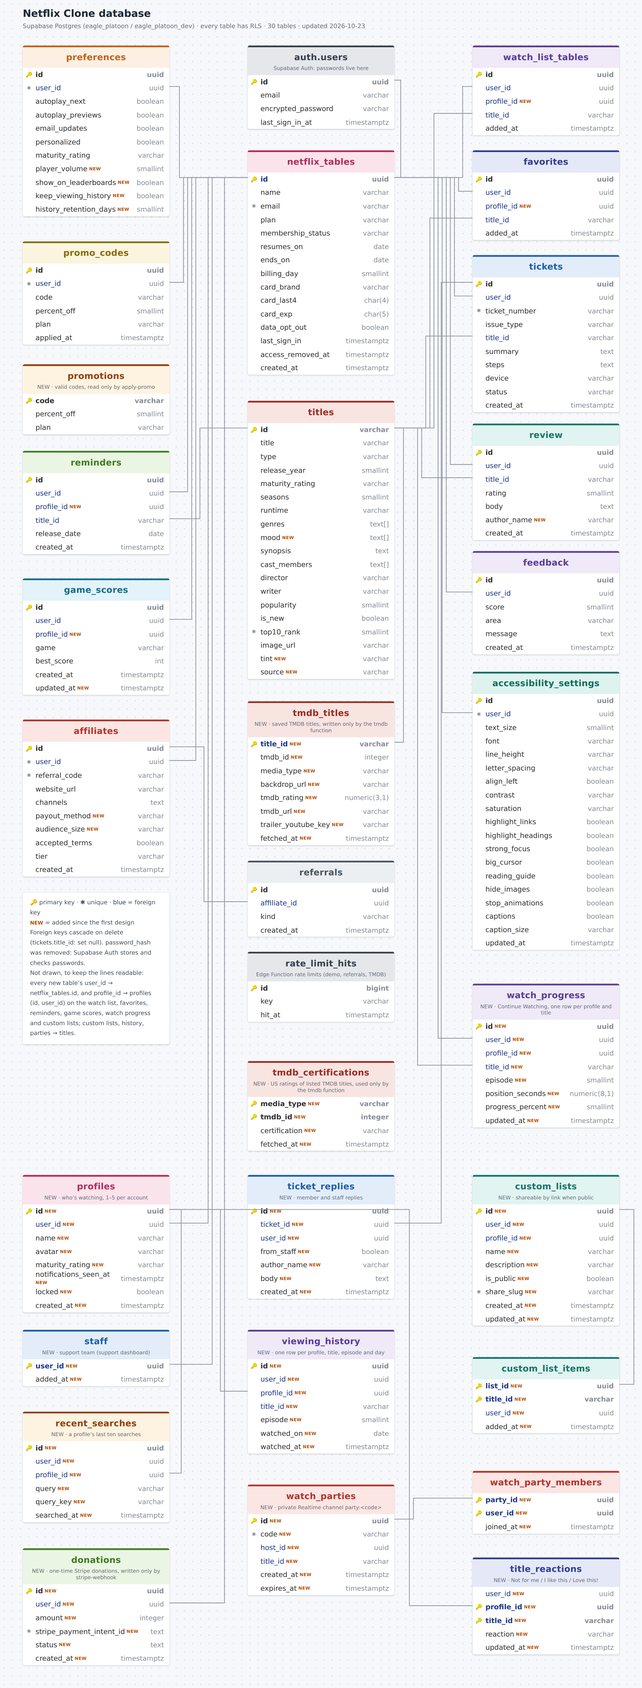
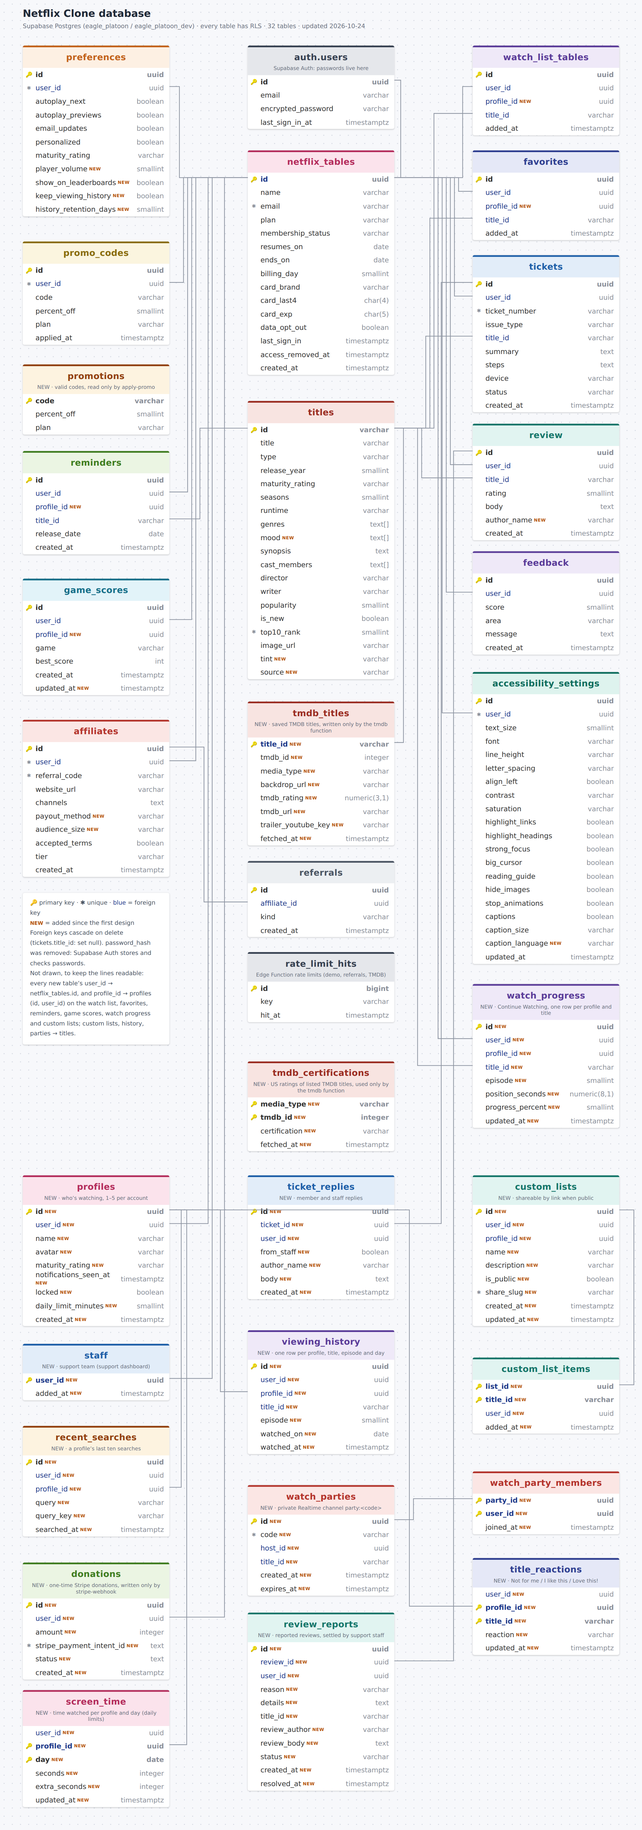
Docs and diagram for the eight features
schema.sql and drawsql.png gain screen_time, review_reports,
profiles.daily_limit_minutes and accessibility_settings.caption_language
(32 tables); user stories 63-66; CLAUDE.md conventions, routes, tests and
what dev runs ahead of production; prompt.md prompts 29-30; READMEs.

diff --git a/supabase/diagram/erd.html b/supabase/diagram/erd.html
@@ -50,14 +50,14 @@ const tables = [
   ['tickets', 'blue', R, 560, ['id:uuid:p', 'user_id:uuid:f', 'ticket_number:varchar:u', 'issue_type:varchar', 'title_id:varchar:f', 'summary:text', 'steps:text', 'device:varchar', 'status:varchar', 'created_at:timestamptz']],
   ['review', 'teal', R, 930, ['id:uuid:p', 'user_id:uuid:f', 'title_id:varchar:f', 'rating:smallint', 'body:text', 'author_name:varchar:n', 'created_at:timestamptz']],
   ['feedback', 'lav', R, 1210, ['id:uuid:p', 'user_id:uuid:f', 'score:smallint', 'area:varchar', 'message:text', 'created_at:timestamptz']],
-  ['accessibility_settings', 'sea', R, 1475, ['id:uuid:p', 'user_id:uuid:fu', 'text_size:smallint', 'font:varchar', 'line_height:varchar', 'letter_spacing:varchar', 'align_left:boolean', 'contrast:varchar', 'saturation:varchar', 'highlight_links:boolean', 'highlight_headings:boolean', 'strong_focus:boolean', 'big_cursor:boolean', 'reading_guide:boolean', 'hide_images:boolean', 'stop_animations:boolean', 'captions:boolean', 'caption_size:varchar', 'updated_at:timestamptz']],
+  ['accessibility_settings', 'sea', R, 1475, ['id:uuid:p', 'user_id:uuid:fu', 'text_size:smallint', 'font:varchar', 'line_height:varchar', 'letter_spacing:varchar', 'align_left:boolean', 'contrast:varchar', 'saturation:varchar', 'highlight_links:boolean', 'highlight_headings:boolean', 'strong_focus:boolean', 'big_cursor:boolean', 'reading_guide:boolean', 'hide_images:boolean', 'stop_animations:boolean', 'captions:boolean', 'caption_size:varchar', 'caption_language:varchar:n', 'updated_at:timestamptz']],
   ['rate_limit_hits', 'gray', M, 2090, ['id:bigint:p', 'key:varchar', 'hit_at:timestamptz'], 'Edge Function rate limits (demo, referrals, TMDB)'],
   ['tmdb_certifications', 'brick', M, 2330, ['media_type:varchar:pn', 'tmdb_id:integer:pn', 'certification:varchar:n', 'fetched_at:timestamptz:n'], 'NEW · US ratings of listed TMDB titles, used only by the tmdb function'],
   ['watch_progress', 'purple', R, 2160, ['id:uuid:pn', 'user_id:uuid:fn', 'profile_id:uuid:fn', 'title_id:varchar:fn', 'episode:smallint:n', 'position_seconds:numeric(8,1):n', 'progress_percent:smallint:n', 'updated_at:timestamptz:n'], 'NEW · Continue Watching, one row per profile and title'],
   // 2026-10-22: profiles, support, history, custom lists, watch parties, recent searches
-  ['profiles', 'pink', L, 2580, ['id:uuid:pn', 'user_id:uuid:fn', 'name:varchar:n', 'avatar:varchar:n', 'maturity_rating:varchar:n', 'notifications_seen_at:timestamptz:n', 'locked:boolean:n', 'created_at:timestamptz:n'], 'NEW · who’s watching, 1–5 per account'],
-  ['staff', 'blue', L, 2920, ['user_id:uuid:pfn', 'added_at:timestamptz:n'], 'NEW · support team (support dashboard)'],
-  ['recent_searches', 'amber', L, 3100, ['id:uuid:pn', 'user_id:uuid:fn', 'profile_id:uuid:fn', 'query:varchar:n', 'query_key:varchar:n', 'searched_at:timestamptz:n'], 'NEW · a profile’s last ten searches'],
+  ['profiles', 'pink', L, 2580, ['id:uuid:pn', 'user_id:uuid:fn', 'name:varchar:n', 'avatar:varchar:n', 'maturity_rating:varchar:n', 'notifications_seen_at:timestamptz:n', 'locked:boolean:n', 'daily_limit_minutes:smallint:n', 'created_at:timestamptz:n'], 'NEW · who’s watching, 1–5 per account'],
+  ['staff', 'blue', L, 2950, ['user_id:uuid:pfn', 'added_at:timestamptz:n'], 'NEW · support team (support dashboard)'],
+  ['recent_searches', 'amber', L, 3130, ['id:uuid:pn', 'user_id:uuid:fn', 'profile_id:uuid:fn', 'query:varchar:n', 'query_key:varchar:n', 'searched_at:timestamptz:n'], 'NEW · a profile’s last ten searches'],
   ['ticket_replies', 'blue', M, 2580, ['id:uuid:pn', 'ticket_id:uuid:fn', 'user_id:uuid:fn', 'from_staff:boolean:n', 'author_name:varchar:n', 'body:text:n', 'created_at:timestamptz:n'], 'NEW · member and staff replies'],
   ['viewing_history', 'purple', M, 2920, ['id:uuid:pn', 'user_id:uuid:fn', 'profile_id:uuid:fn', 'title_id:varchar:fn', 'episode:smallint:n', 'watched_on:date:n', 'watched_at:timestamptz:n'], 'NEW · one row per profile, title, episode and day'],
   ['watch_parties', 'red', M, 3260, ['id:uuid:pn', 'code:varchar:un', 'host_id:uuid:fn', 'title_id:varchar:fn', 'created_at:timestamptz:n', 'expires_at:timestamptz:n'], 'NEW · private Realtime channel party:&lt;code&gt;'],
@@ -67,7 +67,10 @@ const tables = [
   // 2026-10-23: thumbs ratings (profile PINs live in the private schema, outside the API)
   ['title_reactions', 'indigo', R, 3420, ['user_id:uuid:fn', 'profile_id:uuid:pfn', 'title_id:varchar:pfn', 'reaction:varchar:n', 'updated_at:timestamptz:n'], 'NEW · Not for me / I like this / Love this!'],
   // 2026-10-23: donations (Stripe)
-  ['donations', 'green', L, 3400, ['id:uuid:pn', 'user_id:uuid:fn', 'amount:integer:n', 'stripe_payment_intent_id:text:un', 'status:text:n', 'created_at:timestamptz:n'], 'NEW · one-time Stripe donations, written only by stripe-webhook'],
+  ['donations', 'green', L, 3430, ['id:uuid:pn', 'user_id:uuid:fn', 'amount:integer:n', 'stripe_payment_intent_id:text:un', 'status:text:n', 'created_at:timestamptz:n'], 'NEW · one-time Stripe donations, written only by stripe-webhook'],
+  // 2026-10-24: screen-time limits, reported reviews
+  ['screen_time', 'pink', L, 3710, ['user_id:uuid:fn', 'profile_id:uuid:pfn', 'day:date:pn', 'seconds:integer:n', 'extra_seconds:integer:n', 'updated_at:timestamptz:n'], 'NEW · time watched per profile and day (daily limits)'],
+  ['review_reports', 'teal', M, 3540, ['id:uuid:pn', 'review_id:uuid:fn', 'user_id:uuid:fn', 'reason:varchar:n', 'details:text:n', 'title_id:varchar:n', 'review_author:varchar:n', 'review_body:text:n', 'status:varchar:n', 'created_at:timestamptz:n', 'resolved_at:timestamptz:n'], 'NEW · reported reviews, settled by support staff'],
 ]
 // [from table, from column, to table, to column]
 const links = [
@@ -86,10 +89,12 @@ const links = [
   ['watch_party_members', 'party_id', 'watch_parties', 'id'],
   ['title_reactions', 'profile_id', 'profiles', 'id'],
   ['donations', 'user_id', 'netflix_tables', 'id'],
+  ['screen_time', 'profile_id', 'profiles', 'id'],
+  ['review_reports', 'review_id', 'review', 'id'],
 ]
 
 const board = document.getElementById('board')
-board.insertAdjacentHTML('beforeend', '<div id="title">Netflix Clone database</div><div id="sub">Supabase Postgres (eagle_platoon / eagle_platoon_dev) · every table has RLS · 30 tables · updated 2026-10-23</div>')
+board.insertAdjacentHTML('beforeend', '<div id="title">Netflix Clone database</div><div id="sub">Supabase Postgres (eagle_platoon / eagle_platoon_dev) · every table has RLS · 32 tables · updated 2026-10-24</div>')
 for (const [name, color, x, y, rows, note] of tables) {
   const [c, bg] = C[color]
   const el = document.createElement('div')

diff --git a/CLAUDE.md b/CLAUDE.md
@@ -28,7 +28,8 @@ supabase/             Supabase CLI project (config.toml); MCP config in supabase
   migrations/         Schema + RLS, catalog titles, auth support (triggers, promotions, cleanup cron), rate limits,
                       saved TMDB titles, watch progress and leaderboards, profiles, support dashboard, notifications,
                       viewing history, custom lists, watch parties (Realtime RLS), better search (pg_trgm), thumbs
-                      ratings, Year in Review, profile locks, two-step sign-in (restrictive policies, devices), donations
+                      ratings, Year in Review, profile locks, two-step sign-in (restrictive policies, devices), donations,
+                      screen-time limits, caption language, reported reviews
   non_transactional/  CREATE INDEX CONCURRENTLY files: apply with psql after migrations (the CLI can't run them)
                       (Index Advisor is installed on both projects: dashboard → Query Performance suggests missing ones)
   functions/          Edge Functions: demo-account, delete-account, apply-promo, record-referral, tmdb, assistant,
@@ -38,7 +39,7 @@ supabase/             Supabase CLI project (config.toml); MCP config in supabase
   seeds/              Development test data (6 example.com users, rows in every table); never run on production
   tests/database/     pgTAP tests (`supabase test db`): access rules, triggers, cleanup job, rate limiter, indexes
   diagram/            erd.html (source of drawsql.png) + render.mjs (`node supabase/diagram/render.mjs` redraws it)
-schema.sql, drawsql.png  The table design and its diagram, kept in step with the migrations (all 30 public tables)
+schema.sql, drawsql.png  The table design and its diagram, kept in step with the migrations (all 32 public tables)
 user_stories.md       What the database stores, one story per thing the app remembers
 prompt.md             The original build prompt and the Supabase-phase prompts
 .github/workflows/    CI: lint, build, Playwright; pgTAP against a local Supabase (Docker)
@@ -50,8 +51,9 @@ non_transactional file and function to dev first, then production, with the same
 Both run all 20 migrations (through `20261023040000_second_step_for_definer_functions`), non_transactional 001–008
 and the same 8 functions, with `assistant` (production caught up 2026-10-21). `assistant` needs the
 `ANTHROPIC_API_KEY` function secret on each project (without it the app matches words).
-Dev is one step ahead: it also runs migration 21, `20261023050000_donations`, and the functions `process-donation`
-and `stripe-webhook` (10 functions); production doesn't have them yet. They need two function variables per project:
+Dev is ahead: it also runs migrations 21–24 (`20261023050000_donations`, `20261024000000_screen_time`,
+`20261024010000_caption_language`, `20261024020000_review_reports`), non_transactional 009–010 and the functions
+`process-donation` and `stripe-webhook` (10 functions); production doesn't have them yet. They need two function variables per project:
 `STRIPE_SECRET_KEY` (a test-mode key on dev; without it process-donation answers 503) and `STRIPE_WEBHOOK_SECRET`,
 the signing value of the Stripe webhook endpoint that points at `<project>.supabase.co/functions/v1/stripe-webhook`
 (events `payment_intent.succeeded` and `payment_intent.payment_failed`). Never put either value in the repo.
@@ -109,6 +111,7 @@ locally (it isn't installed in this WSL distro, so CI is where these run today).
 | (extra) Year in Review | `/year-in-review` | `pages/YearInReview.jsx`, `data/yearInReview.js` |
 | (extra) What should I watch? (assistant) | `/what-to-watch` | `pages/Assistant.jsx`, `data/assistant.js`, `supabase/functions/assistant` |
 | (extra) Security (two-step sign-in, devices) | in `/account` | `pages/account/Security.jsx`, `data/totp.js`, `data/devices.js` |
+| (extra) Downloads (offline) | `/downloads` (linked from My App; "Download to watch offline" on catalog title pages) | `pages/Downloads.jsx`, `components/DownloadButton.jsx`, `data/downloads.js`, `state/useDownloads.js`, `public/sw.js` |
 | (extra) Donate (one-time, Stripe) | `/donate` (linked from Account → Help and the round coffee button above the tab bar on every page) | `pages/Donate.jsx`, `pages/donate/DonateForm.jsx` (lazy), `data/donations.js`, `lib/stripe.js`, `supabase/functions/process-donation` |
 
 When the outline changes: diff `app_outline/user_journey.md` (`git diff --word-diff`), map each change to this
@@ -277,6 +280,35 @@ after editing.
   can't charge twice. The round coffee link (`.donate-fab`, "Donate: buy us a coffee") sits inside `.bottom-nav`,
   absolutely positioned above it, so it is pinned to the phone frame and covered by the tab bar's axe audit; the
   bottom `scroll-padding` leaves room for it. `donate.spec.js` pays with Stripe test cards 4242… and 4000…0002 on :4174.
+- **Donation history and receipts**: /donate lists the member's donations (`DonationHistory`, read straight from
+  `donations`; it rechecks a few times after a donation while the webhook records it). `process-donation` sets
+  `receipt_email` to the member's address, except for demo accounts (`app_metadata.demo`); Stripe sends no receipts in
+  test mode.
+- **Surprise me**: `components/SurpriseButton.jsx` on Home (follows the TV Shows / Movies chip) and Search (follows
+  Type) opens a random catalog title the profile may watch (`data/surprise.js`: never Not for me, never the last pick).
+- **Keyboard shortcuts help**: `?` on any page (not while typing) opens `components/ShortcutsDialog.jsx`, also from
+  the accessibility menu and the Accessibility Policy. The list is `data/shortcuts.js`: change it with the handlers
+  (Player's `shortcuts`, SearchBox).
+- **Screen-time limits**: `profiles.daily_limit_minutes` (30–240, null = none) changes only through
+  `set_screen_time_limit()` with the account password (a trigger keeps it otherwise, like `locked`). Only limited
+  profiles count time: `state/useScreenTime.js` adds 5 s per tick while the player plays and saves every 15 s through
+  `add_screen_time()` (1–60 s per call, never down; `screen_time` per profile and local day). At the limit the player
+  pauses under `components/ScreenTimeUp.jsx`; `add_extra_screen_time()` (password) allows 30 more minutes. Set it in
+  Profiles → Edit → Screen time. In memory the usage lives for the page load.
+- **Caption language**: `captionLanguage` ('en' | 'es') in the accessibility menu (saved as
+  `accessibility_settings.caption_language`); the Player keys its `<track>` by language
+  (`public/media/<clip>.<lang>.vtt`). The Spanish files are this app's translation of the CC BY-SA English captions:
+  keep the credit in the player and the Legal hub.
+- **Offline downloads**: `data/downloads.js` puts a title's clip (the format this browser plays), both caption files
+  and the seek previews in the `downloads` cache; `public/sw.js` answers `/media` from it, byte ranges included, and
+  never deletes that cache. The list is per device (`netflix-clone-downloads`). Offered only when a service worker
+  controls the page (production builds), so `pwa.spec.js` is where it's tested.
+- **Reported reviews**: members report another member's review (`review_reports`; a trigger copies the review and
+  refuses your own; one per member per review). The support dashboard's Reported reviews view uses
+  `staff_review_reports()` / `staff_resolve_review()` (keep, or delete the review; reports stay marked Removed). In
+  memory the sample reviews can be reported and the demo account settles them (`data/reviewReports.js`).
+- **Phone frame**: on desktop `.phone` is a flex column and `.page` grows, so the footer and sticky tab bar sit at the
+  frame's bottom on short pages too (`layout.spec.js` checks it in a tall window).
 - **Form state**: update with functional setters and read `e.target.value` before them
   (`(e) => { const { value } = e.target; setForm((f) => ({ ...f, key: value })) }`): with transitions pending, a
   spread of the render's `form` can restore an older value.
@@ -316,6 +348,10 @@ after editing.
   previews and picture-in-picture in `accessibility.spec.js`; PINs and Kids in `profiles.spec.js`; two-step sign-in and
   devices in `auth.spec.js`; all of them against the dev project (real TOTP) in `supabase-auth.spec.js`; database rules
   in `supabase/tests/database/seven_features.test.sql`.
+- The eight after that: donation history in `donate.spec.js`; Surprise me in `features.spec.js`; shortcuts help and
+  Spanish captions in `accessibility.spec.js`; screen-time limits in `profiles.spec.js` (Playwright's fake clock);
+  downloads in `pwa.spec.js`; reported reviews in `support.spec.js`; database rules in
+  `supabase/tests/database/eight_features.test.sql`.
 - Header buttons are matched by exact name in tests (`'Accessibility menu', exact: true`), since "Close accessibility
   menu" also contains it.
 

diff --git a/user_stories.md b/user_stories.md
@@ -4,7 +4,7 @@
 
 Pulled from `app_outline/` (the user journey and each page's `user_journey.md`) into one list: one line per thing the app has to *remember*. Story 1 isn't on any single page; it's there so the database knows who owns what.
 
-These stories are what the Supabase database stores (see `schema.sql`, `drawsql.png` and `supabase/migrations/`). Without Supabase configured the app keeps the same data in memory, and it resets on refresh. Stories 26–32 were added with the Supabase backend. Stories 33–35 came with The Movie Database (TMDB): its titles are fetched live through the `tmdb` Edge Function, and a TMDB title is stored only once a member saves it (story 36, `titles` with `source = 'tmdb'` plus `tmdb_titles`); lookups that reach TMDB are counted for rate limiting (story 31). Stories 36–38 were added with saved TMDB titles, player volume and episode buttons. Stories 39–44 came with Continue Watching (`watch_progress`), TMDB trailers, where to watch, reviews, recommendations and certifications (`tmdb_titles.trailer_youtube_key`, `tmdb_certifications`) and opt-in game leaderboards (`preferences.show_on_leaderboards`, `game_scores.updated_at`, the `game_leaderboard()` function). Stories 45–54 came with ten more features: profiles (`profiles`, and `profile_id` on the per-profile tables), the support dashboard (`staff`, `ticket_replies`), reminders and notifications (`reminders.release_date`, `profiles.notifications_seen_at`), viewing history and its privacy settings (`viewing_history`, `preferences.keep_viewing_history`, `preferences.history_retention_days`), custom lists (`custom_lists`, `custom_list_items`, `shared_list()`), watch parties (`watch_parties`, `watch_party_members`, `join_watch_party()`, private Realtime channels) and better search (`search_titles()`, `recent_searches`). Actor and director pages, episodes and the installable app need no stored data.
+These stories are what the Supabase database stores (see `schema.sql`, `drawsql.png` and `supabase/migrations/`). Without Supabase configured the app keeps the same data in memory, and it resets on refresh. Stories 26–32 were added with the Supabase backend. Stories 33–35 came with The Movie Database (TMDB): its titles are fetched live through the `tmdb` Edge Function, and a TMDB title is stored only once a member saves it (story 36, `titles` with `source = 'tmdb'` plus `tmdb_titles`); lookups that reach TMDB are counted for rate limiting (story 31). Stories 36–38 were added with saved TMDB titles, player volume and episode buttons. Stories 39–44 came with Continue Watching (`watch_progress`), TMDB trailers, where to watch, reviews, recommendations and certifications (`tmdb_titles.trailer_youtube_key`, `tmdb_certifications`) and opt-in game leaderboards (`preferences.show_on_leaderboards`, `game_scores.updated_at`, the `game_leaderboard()` function). Stories 64–66 came with screen-time limits (`profiles.daily_limit_minutes`, `screen_time`), Spanish captions (`accessibility_settings.caption_language`) and reported reviews (`review_reports`); Surprise me, keyboard shortcuts help and offline downloads need no stored data (downloads stay in the browser). Stories 45–54 came with ten more features: profiles (`profiles`, and `profile_id` on the per-profile tables), the support dashboard (`staff`, `ticket_replies`), reminders and notifications (`reminders.release_date`, `profiles.notifications_seen_at`), viewing history and its privacy settings (`viewing_history`, `preferences.keep_viewing_history`, `preferences.history_retention_days`), custom lists (`custom_lists`, `custom_list_items`, `shared_list()`), watch parties (`watch_parties`, `watch_party_members`, `join_watch_party()`, private Realtime channels) and better search (`search_titles()`, `recent_searches`). Actor and director pages, episodes and the installable app need no stored data.
 
 1. As a user, I want an account with my name, email and password so that my private lists and settings belong to me, and no one else can see or change them. Reviews and ratings are readable by everyone. (Supabase Auth keeps the password; private data shows a member only their own rows, while the catalog and reviews are publicly readable.)
 2. As a user, I want to choose a membership plan (Basic, Standard or Premium) so that I know what I pay and what quality I get.
@@ -68,3 +68,8 @@ These stories are what the Supabase database stores (see `schema.sql`, `drawsql.
 60. As a member, I want to see which devices are signed in to my account and sign out any of them, or all but this one, so that a lost phone or a shared computer can't keep using my account.
 61. As a member who doesn't know what to watch, I want to describe what I'm in the mood for in my own words and get a few titles with a reason each, chosen only from titles my profile can watch, and to know what is sent to the AI service, so that I find something quickly without giving away who I am.
 62. As a member, I want to make a one-time donation by card (from $1 to $10,000, from the coffee button on any page) and have each one recorded with its amount, date and whether it went through, so that I can support the app; my card number never reaches the app's database, only I can read my donations, and nobody (not even me) can change or delete them.
+63. As a member, I want to see my past donations (amount, date and whether each went through) on the donation page, and to get Stripe's emailed receipt, so that I can keep track of what I gave.
+64. As a parent, I want to set a daily viewing limit on a profile (from 30 minutes to 4 hours, with the account password) so that the player stops once the time is used up, and to allow 30 more minutes with the password when I choose; nobody watching can raise the limit or reset the time watched.
+65. As a viewer, I want captions in Spanish as well as English, chosen in the accessibility menu and remembered with my other accessibility settings, so that I can follow along in the language I read best.
+66. As a member, I want to report another member's review (spoilers, offensive, spam or something else, with optional details) so that support can look at it; as support staff, I want to see reported reviews with a copy of what was written and keep or remove each one, so that title pages stay useful and safe. A member can report a review once and never their own.
+

diff --git a/netflix_clone/README.md b/netflix_clone/README.md
@@ -55,6 +55,12 @@ New passwords need 13+ characters with lowercase, uppercase, a digit and a symbo
 | Watch party | On a catalog title, **Watch party**; open the invite link in a second tab and press play in either |
 | Search | Try `nite shift` (a typo), `mara` (a person) or `thril` (a genre); press Enter to keep a search in recent searches |
 | Install | Account → App (Chrome and Edge offer **Install Netflix Clone**; iPhone: Share → Add to Home Screen); production builds only |
+| Surprise me | Home (under the hero) or Search: opens a random title for the profile, following the Movies / TV Shows filter |
+| Keyboard shortcuts | Press **?** on any page (or Accessibility menu → Keyboard shortcuts) |
+| Screen-time limits | Profiles → Manage profiles → Edit → Screen time: choose a daily limit and enter the account password. When it's used up the player stops; **Ask a grown-up** allows 30 more minutes with the password |
+| Spanish captions | Accessibility menu → Caption language → Español, then turn on CC in the player |
+| Downloads | In a production build (`npm run build`, then serve `dist/`), a title page offers **Download to watch offline**; My App → Downloads lists them. Go offline and it still plays |
+| Report a review | Under someone else's review on a title page, **Report**. In memory the demo account is staff: Account → Support dashboard → Reported reviews to keep or remove it |
 | Seed data (dev project) | Six `@example.com` members (Alex, Jordan, Sam, Priya, Chris, Dana) with lists, reviews, tickets and affiliates, from `../supabase/seeds/` |
 
 ### Troubleshooting
@@ -106,7 +112,8 @@ Tests serve the built app with `e2e/serve.js`, a tiny static server with SPA fal
 | Together | `/lists`, `/lists/:listId`, `/shared/:slug`, `/party/:code` | Custom lists shareable by link (public page for anyone), watch parties over Supabase Realtime with presence and chat |
 | Activity | `/notifications`, `/history`, `/support-dashboard` | Notifications bell (released reminders, support replies), viewing activity with privacy controls, the support team's ticket queue |
 | Library | `/my-netflix`, `/watchlist`, `/favorites`, `/account` | Watch list & Favorites pages; profile, password, plan, billing (payment method, billing date, pause, cancel), autoplay, maturity, accessibility and privacy settings, Security (two-step sign-in, signed-in devices), danger zone (delete account) |
-| Donate | `/donate` | One-time card donations through Stripe ($5, $10, $25, $50 or $1–$10,000), opened from the round coffee button above the tab bar on every page or from Account; the `process-donation` and `stripe-webhook` Edge Functions (dev project for now) |
+| Donate | `/donate` | One-time card donations through Stripe ($5, $10, $25, $50 or $1–$10,000), opened from the round coffee button above the tab bar on every page or from Account, with the member's past donations and an emailed Stripe receipt; the `process-donation` and `stripe-webhook` Edge Functions (dev project for now) |
+| Downloads | `/downloads` | Titles saved on this device to watch offline ("Download to watch offline" on a title page; the service worker plays them, seeking included) |
 | Games | `/games`, `/games/:gameId` | Poster Match (`memory`), Plot Twist (`trivia`), Timeline (`timeline`), Cast Call (`cast`), Higher or Lower (`higher-lower`) and Title Scramble (`scramble`), with best scores (saved with Supabase) and opt-in leaderboards (first names only) |
 | Help & legal | `/info/:slug` | Support hub with live-chat mock, FAQs, Feedback, Issue Reporting, Promotions (working promo codes), Technical Requirements, AI Integration, Affiliate Program (join, referral dashboard, tiered commissions, marketing materials), Legal & Privacy hub, Terms, Privacy, Do Not Sell, Accessibility Policy |
 

diff --git a/README.md b/README.md
@@ -73,7 +73,7 @@ refresh; signing out removes it.
 
 | Piece | What it does |
 | --- | --- |
-| Postgres tables | 30 tables in `public` ([`schema.sql`](schema.sql), diagram [`drawsql.png`](drawsql.png)) with row-level security: catalog titles and reviews (including ratings) are readable by anyone, as are the TMDB titles members save (`tmdb_titles`, written only by the `tmdb` function); private account data, lists, watch progress and preferences (including the player volume and the leaderboard opt-in) are owner-only; leaderboards are read through `game_leaderboard()`, which returns opted-in first names and scores only; promotions, rate-limit hits and TMDB certifications are server-only; `donations` (amount, status and Stripe's payment id, never card details) is readable by its owner only and written only by the `stripe-webhook` function |
+| Postgres tables | 32 tables in `public` ([`schema.sql`](schema.sql), diagram [`drawsql.png`](drawsql.png)) with row-level security: catalog titles and reviews (including ratings) are readable by anyone, as are the TMDB titles members save (`tmdb_titles`, written only by the `tmdb` function); private account data, lists, watch progress and preferences (including the player volume and the leaderboard opt-in) are owner-only; leaderboards are read through `game_leaderboard()`, which returns opted-in first names and scores only; promotions, rate-limit hits and TMDB certifications are server-only; `donations` (amount, status and Stripe's payment id, never card details) is readable by its owner only and written only by the `stripe-webhook` function; `screen_time` (time watched per limited profile and day) and `review_reports` (reported reviews) change only through database functions that check the account password or staff role |
 | Supabase Auth | Sign-up, sign-in, password reset emails and password rules; the sign-up trigger creates the member's account, preferences and referral sign-up |
 | Edge Functions | `demo-account` (private demo accounts), `delete-account` (removes access), `apply-promo` (checks codes against `promotions`), `record-referral` (counts link clicks), `tmdb` (new, trending, popular, search and title details from TMDB with trailers, U.S. watch providers and U.S. certifications, `recommendations`, and `save`, which stores a TMDB title a signed-in member adds to a list, with the key in the project's `TMDB_API_FREE` setting); the public ones are rate limited per IP (for `tmdb`, only requests its cache can't answer count). `assistant` (What should I watch?: Claude picks from the profile's allowed titles, with the key in the project's `ANTHROPIC_API_KEY` setting; signed in and rate limited). `hello` and `multiply` are small public test endpoints. On the dev project so far: `process-donation` (creates a Stripe PaymentIntent for the signed-in member, $1–$10,000, with Stripe's API key in the function settings) and `stripe-webhook` (checks Stripe's signature and records each payment once in `donations`) |
 | Database functions | `game_leaderboard()`, `staff_tickets()` / `staff_set_ticket_status()` (support staff only), `shared_list()` (public lists), `join_watch_party()`, `search_titles()` (typo-tolerant, pg_trgm), `year_in_review()`, `set_profile_pin()` / `unlock_profile()` / `verify_account_password()` (PINs are bcrypt hashes outside the API), `my_sessions()` / `end_session()` (signed-in devices), called as `/rest/v1/rpc/<name>`. With two-step sign-in on, a restrictive policy on every table (`second_step_done()`) blocks a session until its code is entered |

diff --git a/prompt.md b/prompt.md
@@ -127,5 +127,13 @@ These came after the front end was built, in this order. Skills used: PostgreSQL
 28. Update `drawsql.png` and `schema.sql` (the `donations` table), `user_journey.md`, `user_stories.md`, the style
     guide, `CLAUDE.md`, `prompt.md`, Supabase (dev only for now) and the README, committing and pushing after each.
 
-Still to do: custom SMTP for Auth emails, hosting, CAPTCHA on sign-up and sign-in, and donations on production
-(migration, both functions, the two Stripe function settings and a Stripe webhook endpoint for production).
+29. "What new features can you add?", then "please do 1–8": donation history on /donate, Stripe receipts, Surprise
+    me, keyboard shortcuts help (?), screen-time limits for Kids profiles, Spanish captions with a Caption language
+    choice, offline downloads and reporting reviews to the support dashboard; each tested, committed and pushed.
+    Migrations went to the dev project only.
+30. Fix My App so the tab bar (Home, Games, New & Hot, My App) sits where it does on the other tabs (on desktop it rose
+    on short pages in a tall window).
+
+Still to do: custom SMTP for Auth emails, hosting, CAPTCHA on sign-up and sign-in, and donations and the eight
+features on production (migrations 21–24, non_transactional 009–010, both Stripe functions, the two Stripe function
+settings and a Stripe webhook endpoint for production).
